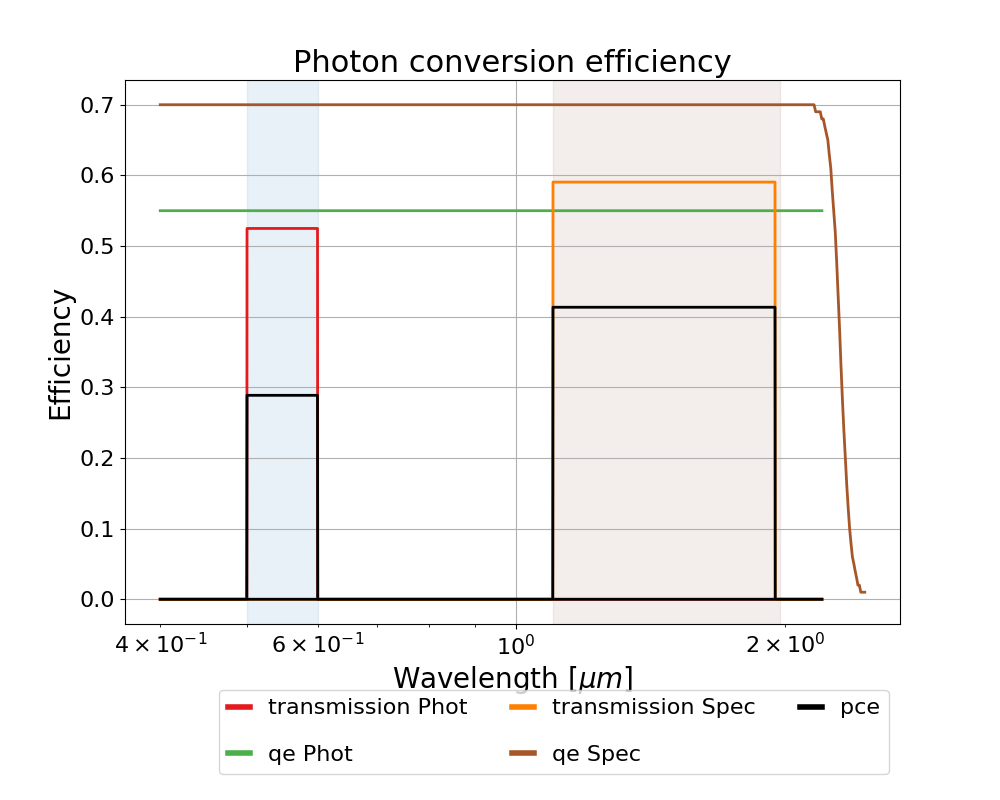
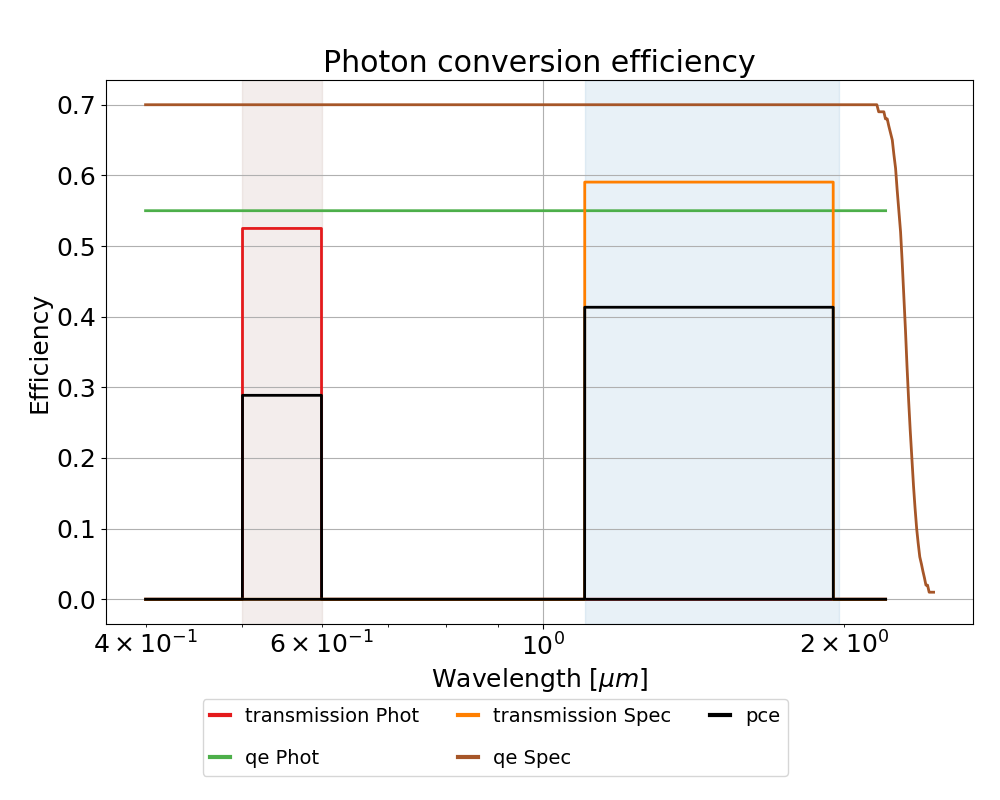
plots and ref updated

diff --git a/exorad/utils/plotter.py b/exorad/utils/plotter.py
@@ -14,6 +14,7 @@ from exorad.log import setLogLevel
 mpl_logger = logging.getLogger("matplotlib")
 mpl_logger.setLevel(logging.WARNING)
 cmap = matplotlib.cm.get_cmap("Set1")
+matplotlib.rcParams.update({'font.size': 18})
 
 
 class Plotter(Logger):
@@ -54,6 +55,7 @@ class Plotter(Logger):
         The Class input_table input parameter is required for this method to work.
         """
         channels = set(self.inputTable["chName"])
+        cmap_bands = matplotlib.cm.get_cmap("tab10")
         norm = matplotlib.colors.Normalize(vmin=0.0, vmax=len(channels))
         tick_list = []
 
@@ -77,7 +79,7 @@ class Plotter(Logger):
                 wl_max,
                 alpha=0.1,
                 zorder=0,
-                color=cmap(
+                color=cmap_bands(
                     norm(k),
                 ),
             )
@@ -92,7 +94,7 @@ class Plotter(Logger):
 
         return ax
 
-    def plot_efficiency(self, scale="log", channel_edges=True):
+    def plot_efficiency(self, scale="log", channel_edges=False):
         """
         It produces a figure with payload efficiency over wavelength.
         The quantities reported are quantum efficiency, transmission and the photon conversion efficiency (pce)
@@ -110,18 +112,21 @@ class Plotter(Logger):
             from matplotlib.lines import Line2D
             from exorad.models.signal import Signal
 
+            keys = ["transmission", "qe"]
+
             norm = matplotlib.colors.Normalize(
-                vmin=0.0, vmax=len(self.channels)
+                vmin=0.0, vmax=len(self.channels)*len(keys)
             )
 
             fig, ax = plt.subplots(1, 1, figsize=(10, 8))
-            fig.suptitle("Payload photon conversion efficiency")
+            # fig.suptitle("Payload photon conversion efficiency")
 
+            lines, labels = [], []
+            i = 0
             if self.channels:
-                keys = ["transmission", "qe"]
                 for ch in self.channels:
                     pce = None
-                    for i, key in enumerate(keys):
+                    for key in keys:
                         data = self.channels[ch].built_instr[
                             "{}_data".format(key)
                         ]
@@ -137,7 +142,21 @@ class Plotter(Logger):
                                 norm(i),
                             ),
                             zorder=10,
+                            lw=2
                         )
+                        lines.append(
+                            Line2D(
+                                [0],
+                                [0],
+                                color=cmap(
+                                    norm(i),
+                                ),
+                                lw=3,
+                            )
+                        )
+                        labels.append('{} {}'.format(key, ch))
+                        i+=1
+
                         if not pce:
                             pce = sig
                         else:
@@ -146,33 +165,18 @@ class Plotter(Logger):
                     ax.plot(
                         pce.wl_grid,
                         pce.data,
-                        color=cmap(
-                            norm(i + 1),
-                        ),
+                        lw=2,
                         zorder=10,
+                        c='k'
                     )
 
-                lines, labels = [], []
-                for i, key in enumerate(keys):
-                    lines.append(
-                        Line2D(
-                            [0],
-                            [0],
-                            color=cmap(
-                                norm(i),
-                            ),
-                            lw=4,
-                        )
-                    )
-                    labels.append(key)
                 lines.append(
                     Line2D(
                         [0],
                         [0],
-                        color=cmap(
-                            norm(i + 1),
-                        ),
-                        lw=4,
+                        lw=3,
+                        c='k'
+
                     )
                 )
                 labels.append("pce")
@@ -191,11 +195,21 @@ class Plotter(Logger):
                     # ax.plot(self.inputTable['Wavelength'], self.inputTable[e], c='None')
             ax.grid(zorder=0)
             ax = self.plot_bands(ax, scale, channel_edges)
-            ax.legend(handles=lines, labels=labels)
+            ax.legend(
+                handles=lines, labels=labels,
+                prop={"size": 14},
+                loc="upper left",
+                ncol=3,
+                bbox_to_anchor=(0.1, -0.12),
+                labelspacing=1.2,
+                handlelength=1,
+            )
             ax.set_title("Photon conversion efficiency")
             ax.set_xlabel(r"Wavelength [$\mu m$]")
-            ax.set_ylabel("efficiency")
+            ax.set_ylabel("Efficiency")
             # ax.set_xscale('log')
+            plt.tight_layout()
+            plt.subplots_adjust(top=0.9, bottom=0.22, hspace=0.7)
 
             self.fig_efficiency = fig
             return fig
@@ -205,7 +219,7 @@ class Plotter(Logger):
                 "channels parameter is required for this method to work"
             )
 
-    def plot_noise(self, ax, ylim=None, scale="log", channel_edges=True):
+    def plot_noise(self, ax, ylim=None, scale="log", channel_edges=False):
         """
         It plots the noise components found in the input table in the indicated axes.
 
@@ -234,7 +248,7 @@ class Plotter(Logger):
                     self.inputTable["Wavelength"],
                     self.inputTable[n],
                     zorder=9,
-                    lw=1,
+                    lw=3,
                     c="k",
                     marker=".",
                     markersize=5,
@@ -257,14 +271,14 @@ class Plotter(Logger):
                     self.inputTable["Wavelength"],
                     noise,
                     zorder=9,
-                    lw=1,
+                    lw=2,
                     alpha=0.5,
                     marker=".",
                     label=n,
                 )  # color=palette[k])  # c='None')
 
         if not ylim:
-            ax.set_ylim(1e-7)
+            ax.set_ylim(5e-7)
         else:
             ax.set_ylim(ylim)
         #        ax.grid(zorder=0, which='both')
@@ -279,16 +293,16 @@ class Plotter(Logger):
         ax.grid(axis="y", which="major", alpha=0.5)
         #        ax.legend(bbox_to_anchor=(1, 1))
         ax.legend(
-            prop={"size": 12},
+            prop={"size": 14},
             loc="upper left",
             ncol=3,
-            bbox_to_anchor=(0.05, -0.2),
+            bbox_to_anchor=(0.01, -0.25),
             labelspacing=1.2,
             handlelength=1,
         )
         ax.set_title("Noise Budget")
         ax.set_xlabel(r"Wavelength [$\mu m$]")
-        ax.set_ylabel(r"relative noise [$\sqrt{{hr}}$]")
+        ax.set_ylabel(r"Relative noise [$\sqrt{t_{int} \, / \, {hr}}$]")
         ax.set_yscale("log")
         # ax.set_xscale('log')
         ax = self.plot_bands(ax, scale, channel_edges)
@@ -326,7 +340,7 @@ class Plotter(Logger):
                 self.inputTable["Wavelength"],
                 self.inputTable[s],
                 zorder=9,
-                lw=1,
+                lw=2,
                 alpha=0.5,
                 marker=".",
                 label=s,
@@ -334,7 +348,7 @@ class Plotter(Logger):
             # color=palette[k])  # , c='None')
 
         if not ylim:
-            ax.set_ylim(1e-3)
+            ax.set_ylim(1e-1, 5e6)
         else:
             ax.set_ylim(ylim)
         #        ax.grid(zorder=0, which='both')
@@ -349,16 +363,16 @@ class Plotter(Logger):
         ax.grid(axis="y", which="major", alpha=0.5)
         #        ax.legend(bbox_to_anchor=(1, 1))
         ax.legend(
-            prop={"size": 12},
+            prop={"size": 14},
             loc="upper left",
             ncol=3,
-            bbox_to_anchor=(0.05, -0.2),
+            bbox_to_anchor=(0.05, -0.25),
             labelspacing=1.2,
             handlelength=1,
         )
         ax.set_title("Signals")
         ax.set_xlabel(r"Wavelength [$\mu m$]")
-        ax.set_ylabel("$ct/s$")
+        ax.set_ylabel("$counts/s$")
         ax.set_yscale("log")
         # ax.set_xscale('log')
         ax = self.plot_bands(ax, scale, channel_edges)
@@ -366,7 +380,7 @@ class Plotter(Logger):
         return ax
 
     def plot_table(
-        self, sig_ylim=None, noise_ylim=None, scale="log", channel_edges=True
+        self, sig_ylim=None, noise_ylim=None, scale="log", channel_edges=False
     ):
         """
         It produces a figure with signal and noise for the input table.
@@ -381,7 +395,7 @@ class Plotter(Logger):
         The Class input_table input parameter is required for this method to work.
         """
         fig, (ax1, ax2) = plt.subplots(2, 1, figsize=(10, 10))
-        fig.suptitle(self.inputTable.meta["name"])
+        # fig.suptitle(self.inputTable.meta["name"])
         ax1 = self.plot_signal(
             ax1, ylim=sig_ylim, scale=scale, channel_edges=channel_edges
         )
@@ -389,7 +403,7 @@ class Plotter(Logger):
             ax2, ylim=noise_ylim, scale=scale, channel_edges=channel_edges
         )
         plt.tight_layout()
-        plt.subplots_adjust(top=0.9, bottom=0.22, hspace=0.7)
+        plt.subplots_adjust(top=0.95, bottom=0.25, hspace=0.8)
         self.fig = fig
         return fig, (ax1, ax2)
 

diff --git a/joss/paper.md b/joss/paper.md
@@ -55,17 +55,17 @@ ExoRad 2.0 is a simulator able to accurately predict the telescope performance i
 
 ![ExoRad computes the instrument's optical efficiency (red and orange for the photometer and the spectrometer respectively) by combining the optical elements and the foregrounds between the target star and the telescope. By combining the optical efficiency with the detector quantum efficiency (green and brown for the photometer and the spectrometer respectively), it measures the photon conversion efficiency (black) for each channel. In this example, we report the results for an instrument consisting of a photometer (blue band) and a spectrometer (red band), which is included as a quick-start simulation in the source code package. \label{fig:efficiency}](efficiency.png){height=90%}
 
-ExoRad 2.0 uses simulated PFSs to output the estimated signals on the detector pixels. Different formats of PSFs are supported (such as PAOS [@paos] products) and more can be easily added to the software in the future. If no PSF is provided, ExoRad 2.0 uses a simple Airy PSF. From the signal, ExoRad 2.0 computes the relative noise versus the spectral bins (see \autoref{fig:myTest}). The software also returns the maximum signal on a pixel for each spectral bin and estimates the detector saturation time. The noise sources included in the simulation are not limited to the photon noise arising from the signal. The software includes detector noise as dark current and read noise, and a noise gain factor related to the readout noise and the Multiaccum equation [@pandexo], which is also described in @arielrad. Custom wavelength-dependent noise sources can be included at the instrument or channel level from the input file. The noise output is in units of relative noise on one hour integration time, such that can be easily rescaled to the desired observing time.
+ExoRad 2.0 uses simulated PFSs to output the estimated signals on the detector pixels. Different formats of PSFs are supported (such as PAOS [@paos] products) and more can be easily added to the software in the future. If no PSF is provided, ExoRad 2.0 uses a simple Airy PSF. From the signal, ExoRad 2.0 computes the relative noise versus the spectral bins (see \autoref{fig:myTest}). The software also returns the maximum signal on a pixel for each spectral bin and estimates the detector saturation time. The noise sources included in the simulation are not limited to the photon noise arising from the signal. The software includes detector noise as dark current and read noise, and a noise gain factor related to the readout noise and the Multiaccum equation [@rauscher,@pandeia], which is also described in @arielrad. Custom wavelength-dependent noise sources can be included at the instrument or channel level from the input file. The noise output is in units of relative noise on one hour integration time, such that can be easily rescaled to the desired observing time.
 ExoRad 2.0 can estimate the performance of entire target lists. By analyzing 1000 candidate targets in a 20 minutes time scale, the software allows the validation of different observational strategies.
 
-![ExoRad produces diagnostic plots to summarise the contributions to the signal and to the noise. In this example, we run the quick-start simulation included in the package, where the instrument consists of a photometer (blue band) and a spectrometer (red band). The figure shows the contribution to the signal on the top panel, where each data point corresponds to a spectral bin computed according to the spectral resolving power indicated in the instrument description. In this example, the main contribution to the signal is the flux from the target stars. Other contributions are considered: `zodi_signal`, referring to the zodiacal emission, and `skyFilter_signal`, which is a custom contribution included in the simulation. `instrument_signal`, which refers to the instrument self-emission, is considered in this example, but its contribution is too small for the figure axis range. The bottom panel shows the noise relative to the signal in a time scale of 1 hour. Other noise contributions arising from the signals are included on top of the photon noise. The noise sources include the dark current, the read noise and three custom noise sources called `gain noise`. \label{fig:myTest}](myTest.png){height=90%}
+![ExoRad produces diagnostic plots to summarise the contributions to the signal and to the noise. In this example, we run the quick-start simulation included in the package, where the instrument consists of a photometer (blue band) and a spectrometer (red band). The figure shows the contribution to the signal on the top panel, where each data point corresponds to a spectral bin computed according to the spectral resolving power indicated in the instrument description. In this example, the main contribution to the signal is the flux from the target stars. Other contributions are considered: `zodi_signal`, referring to the zodiacal emission, and `skyFilter_signal`, which is a custom contribution included in the simulation. `instrument_signal`, which refers to the instrument self-emission, is considered in this example, but its contribution is too small for the figure axis range. The bottom panel shows the noise relative to the signal integrated on a time scale ($t_{int}$) of 1 hour. Other noise contributions arising from the signals are included on top of the photon noise. The noise sources include the dark current, the read noise and three custom noise sources called `gain noise`. \label{fig:myTest}](myTest.png){height=90%}
 
 # Statement of need
 Since the early phases of designing and developing instruments, we need fast and reliable tools to convert the scientific requirements into instrument requirements, and to verify during the mission development that the instrument performance fulfills such requirements. In the framework of the Ariel Space Mission, we developed ExoRad 2.0, a versatile tool to estimate space instruments' performance. ExoRad 2.0 is the core of the second version of the Ariel radiometric simulator, ArielRad [@arielrad]. The ArielRad software has been extensively used by the consortium to validate the mission design, optimize the instrument performances, flow down the requirements to the subsystems' level, and prepare Ariel science.
 
 ExoRad 2.0 allows the same level of flexibility and accuracy as ArielRad, but it is now compatible with any photometric or spectroscopic instrument. The software is written following an object-oriented programming paradigm, allowing the user to easily extend the software to include new functionalities. The package includes a default pipeline for the simulation, but it can also be used as a library to build custom simulations. An example of the latter is included in the source code as a Python notebook. The software is compatible with any instrument having single or multiple channels. This allows the user to easily simulate different optical paths or different configurations for the same instrument. The software is also compatible with any target, allowing the user to easily include new target types in the software. The software is continuously updated and improved to include new functionalities and to be compatible with new instruments.
 
-The software is used by the community to design their instruments and validate their performance, and select the best targets to optimize the scientific return.
+The software is used by the community to design their instruments and validate their performance and select the best targets to optimize the scientific return.
 
 
 # Acknowledgements
